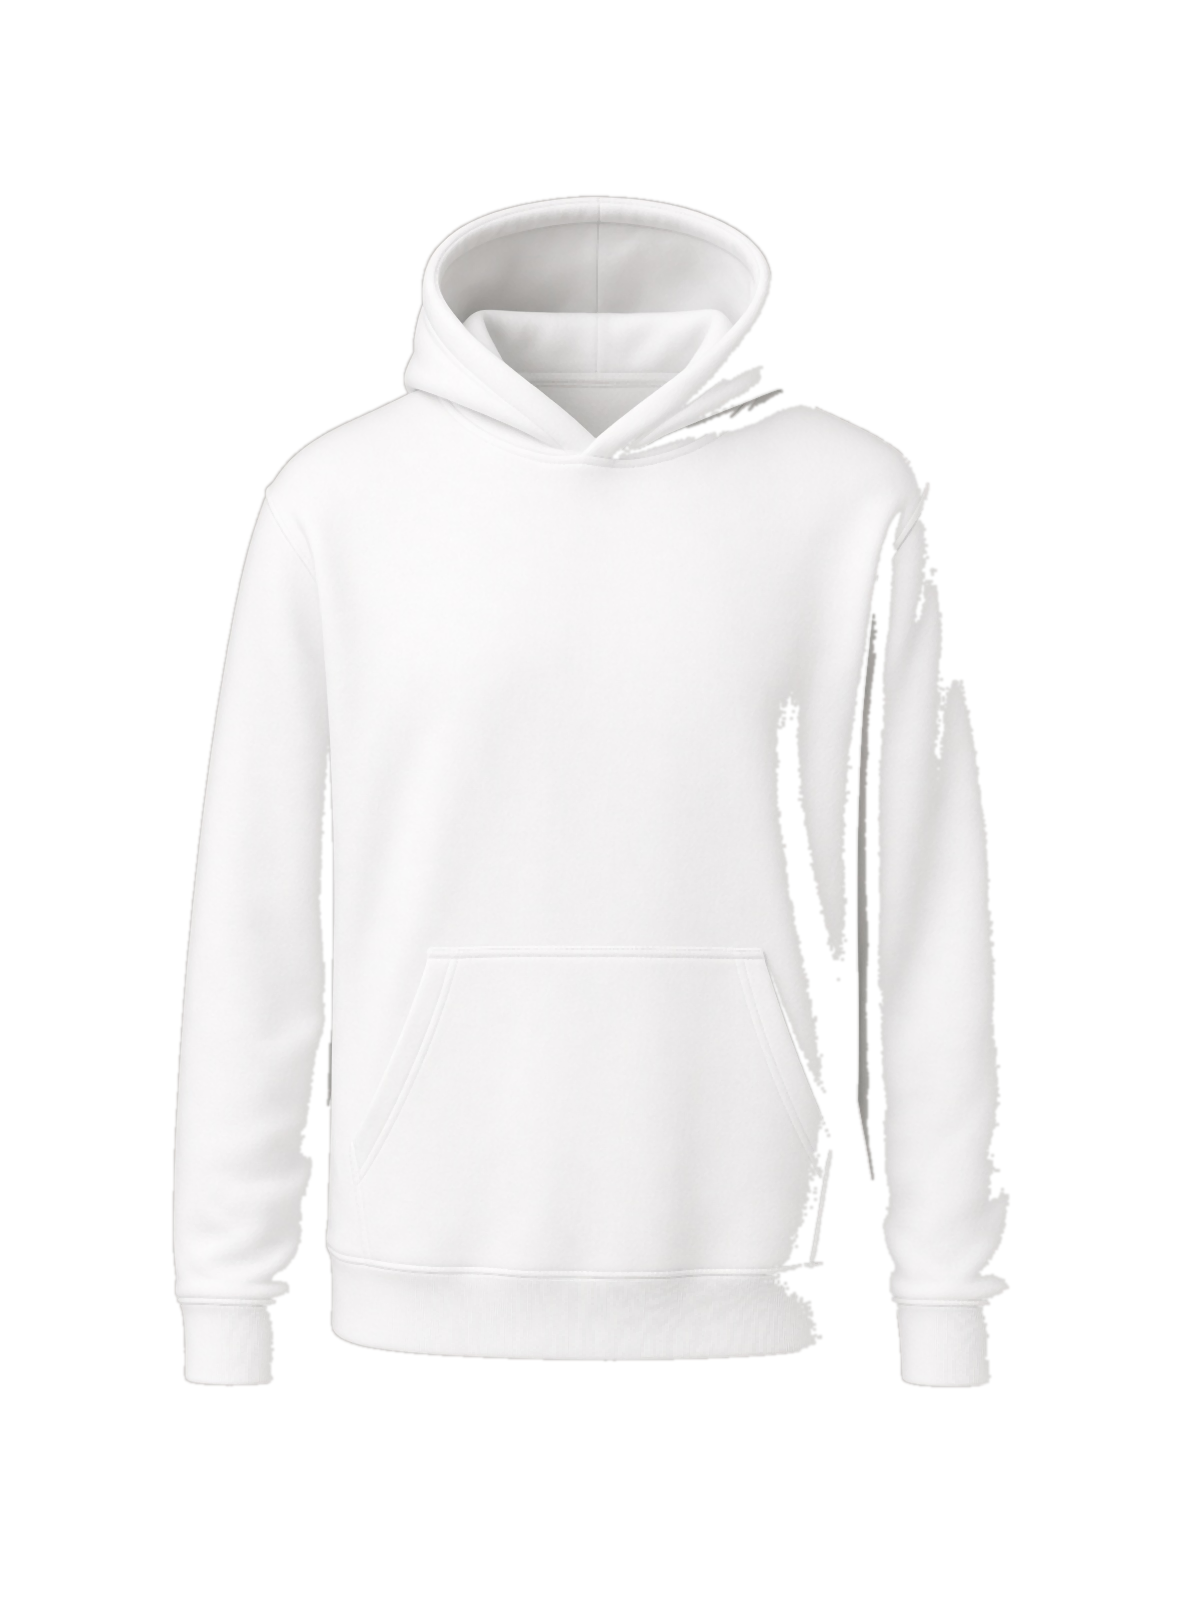
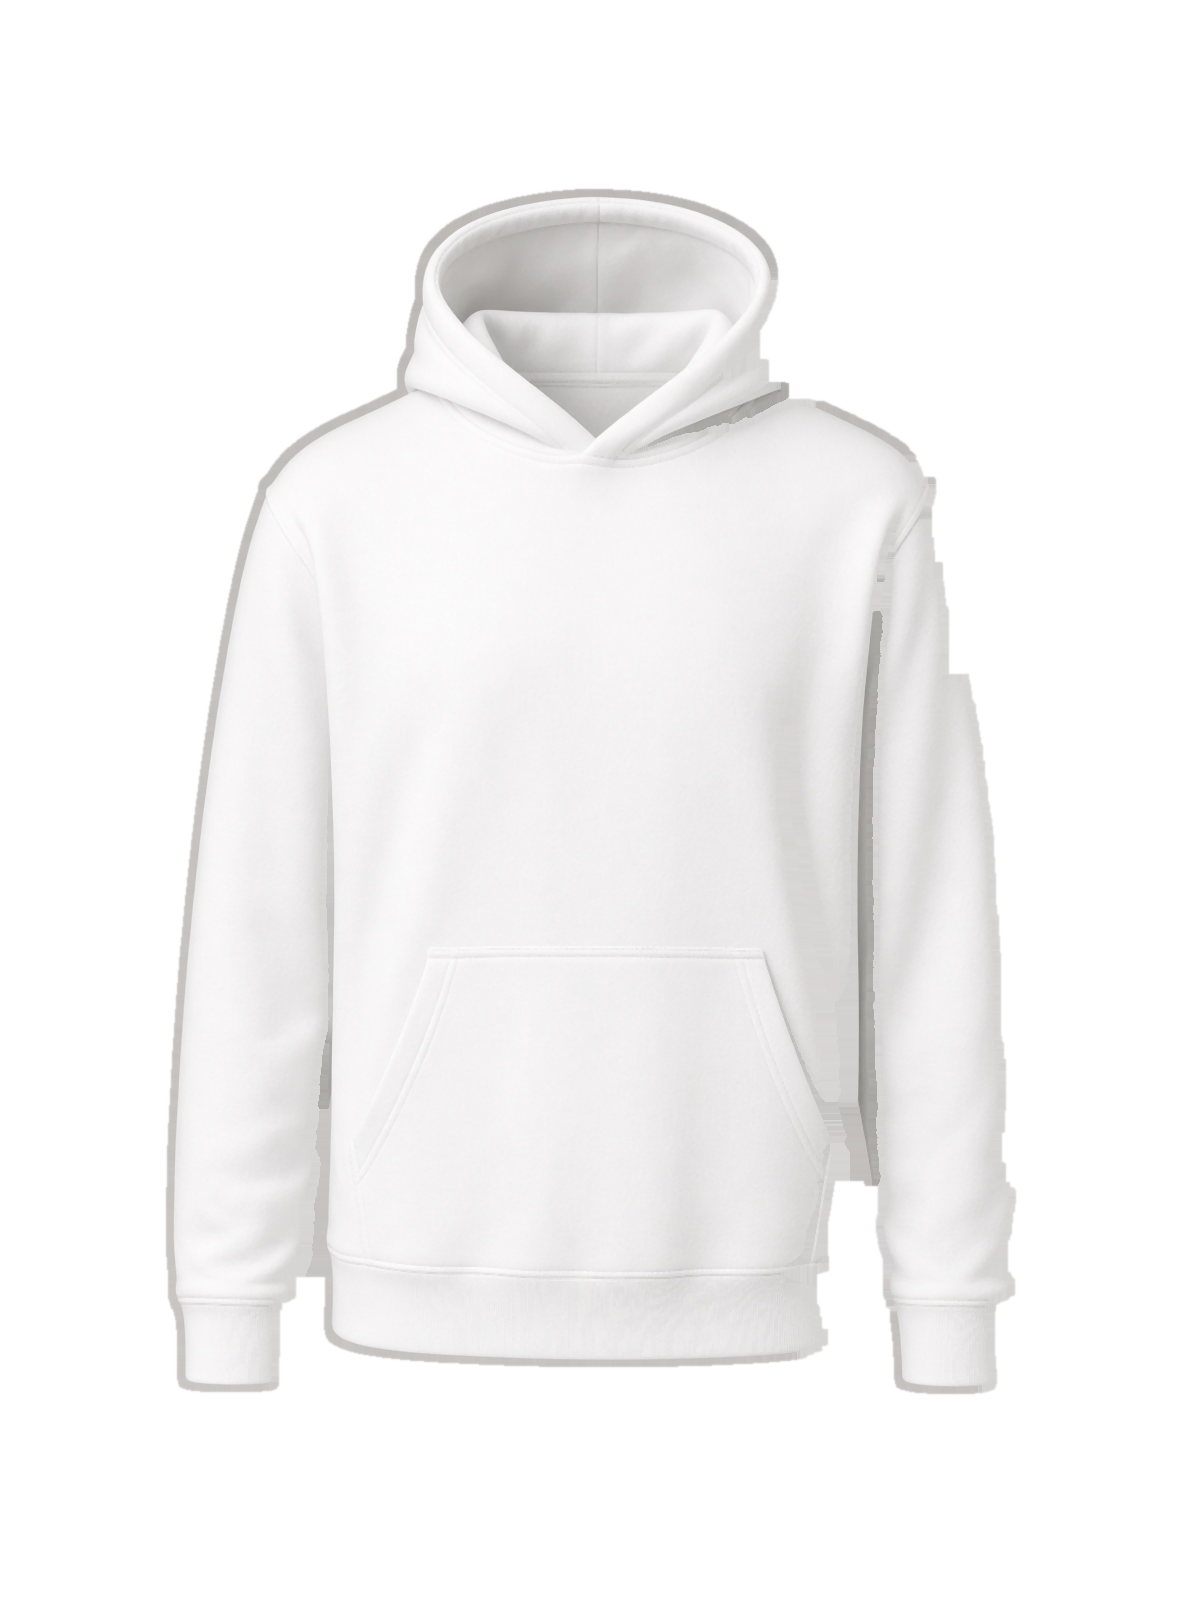
Recompõe mangas e laterais das peças no estúdio
O recorte anterior comia a manga direita. A máscara agora fecha
os buracos e a camiseta, polo e moletom ficam inteiros.

diff --git a/src/lib/studio.ts b/src/lib/studio.ts
@@ -50,8 +50,8 @@ export const GARMENTS: Garment[] = [
     id: "tshirt",
     name: "Camiseta",
     priceFrom: 32.9,
-    front: "/mockups/tshirt-front.png",
-    back: "/mockups/tshirt-back.png",
+    front: "/mockups/tshirt-front.png?v=3",
+    back: "/mockups/tshirt-back.png?v=3",
     print: { x: 0.3, y: 0.3, w: 0.4, h: 0.32 },
     printBack: { x: 0.28, y: 0.26, w: 0.44, h: 0.38 },
   },
@@ -59,8 +59,8 @@ export const GARMENTS: Garment[] = [
     id: "polo",
     name: "Polo",
     priceFrom: 54.9,
-    front: "/mockups/polo-front.png",
-    back: "/mockups/polo-back.png",
+    front: "/mockups/polo-front.png?v=3",
+    back: "/mockups/polo-back.png?v=3",
     print: { x: 0.32, y: 0.28, w: 0.36, h: 0.28 },
     printBack: { x: 0.28, y: 0.24, w: 0.44, h: 0.38 },
   },
@@ -68,8 +68,8 @@ export const GARMENTS: Garment[] = [
     id: "hoodie",
     name: "Moletom",
     priceFrom: 129.9,
-    front: "/mockups/hoodie-front.png",
-    back: "/mockups/hoodie-back.png",
+    front: "/mockups/hoodie-front.png?v=3",
+    back: "/mockups/hoodie-back.png?v=3",
     print: { x: 0.32, y: 0.26, w: 0.36, h: 0.22 },
     printBack: { x: 0.28, y: 0.22, w: 0.44, h: 0.36 },
   },
